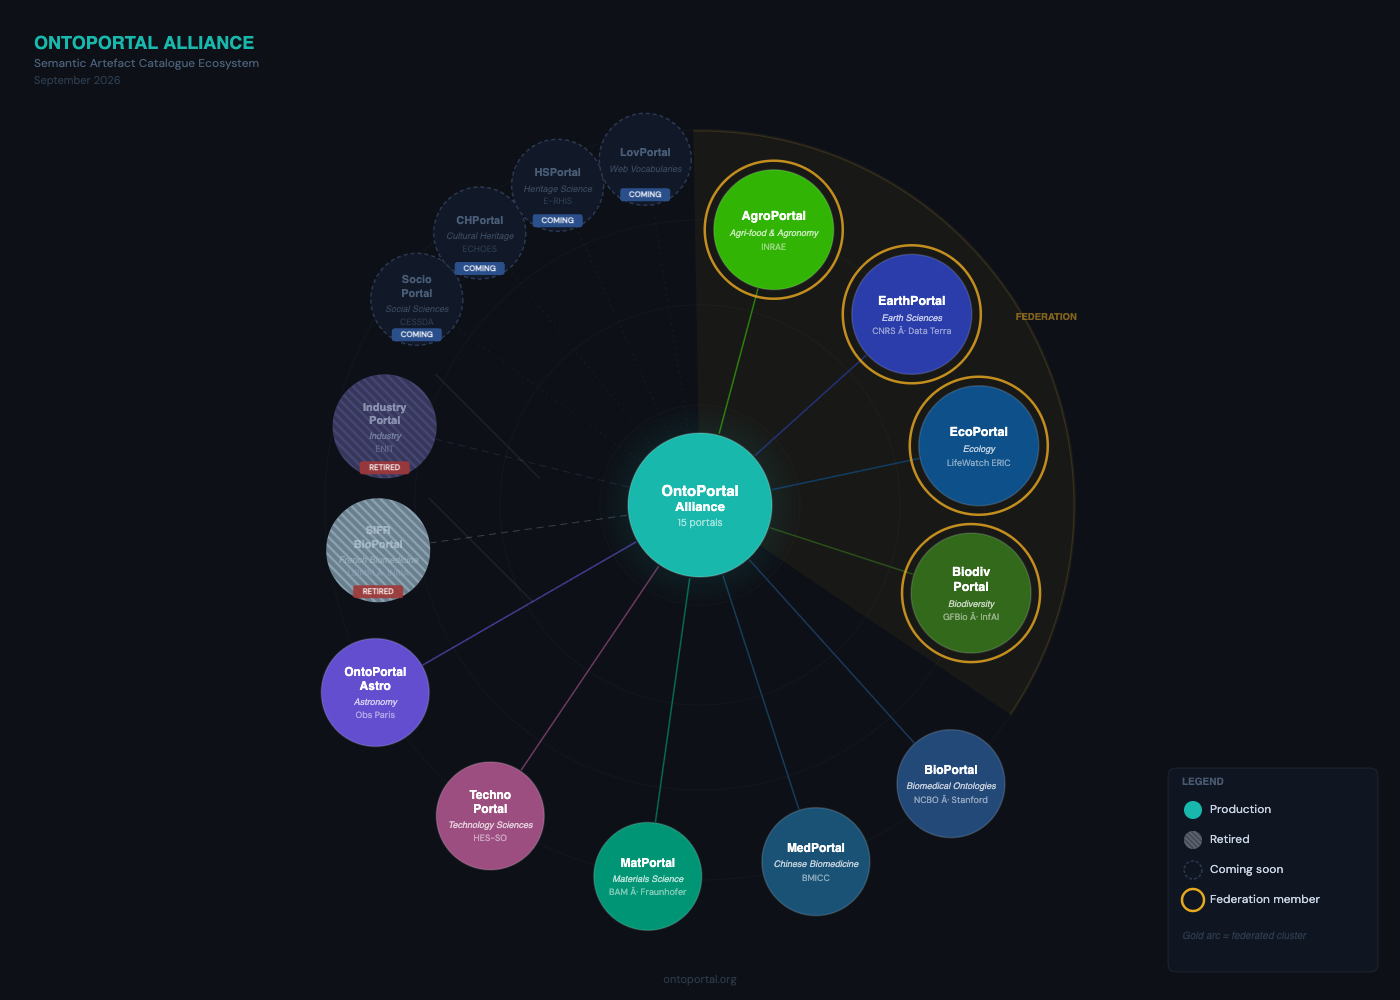
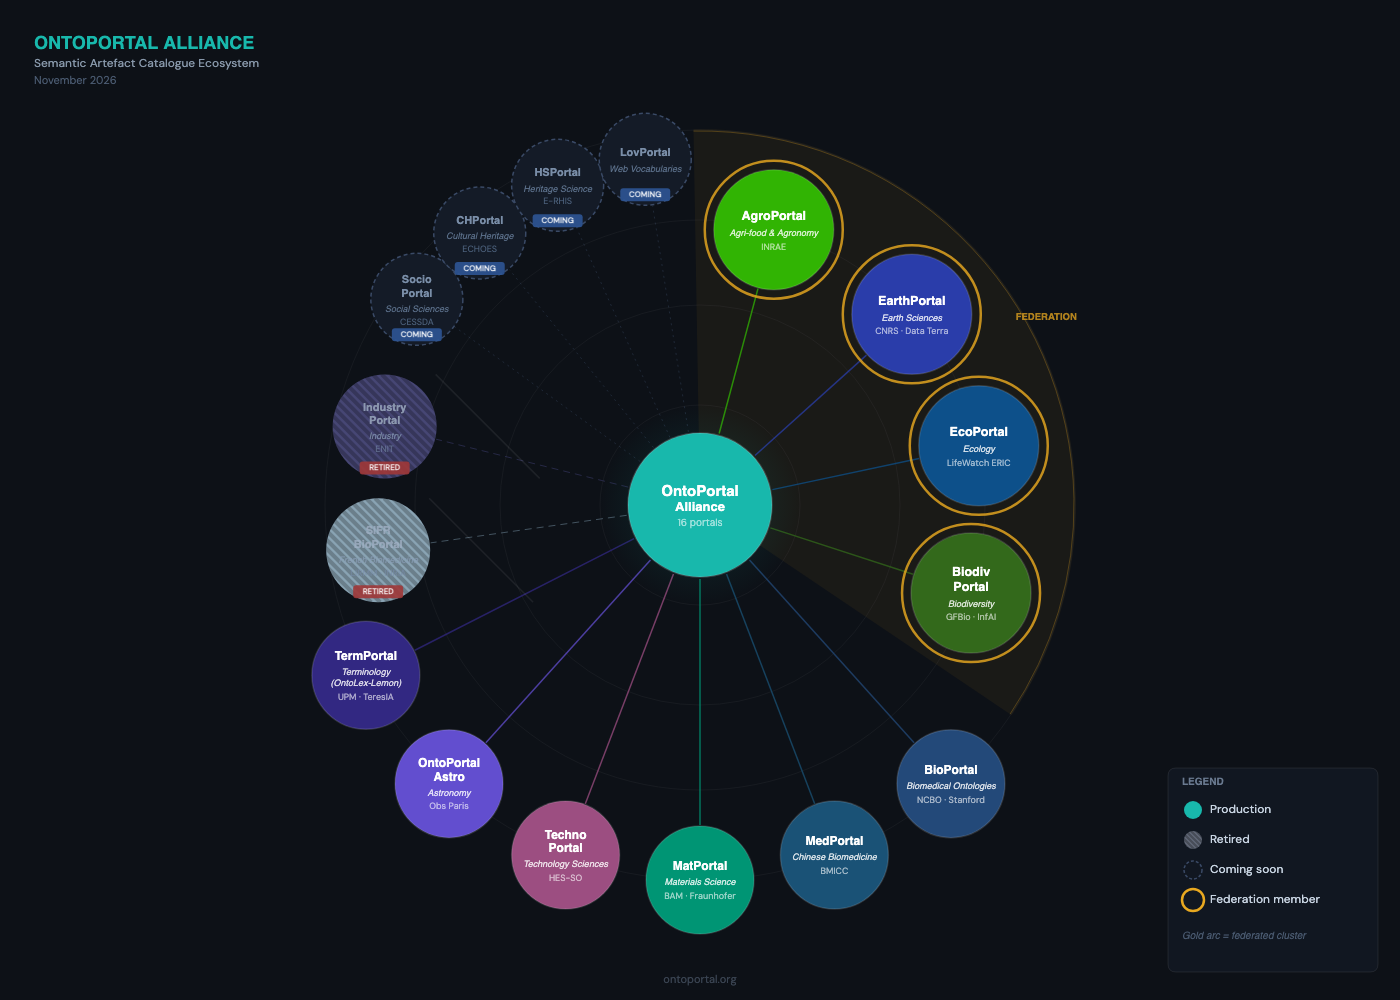
Add a dark theme to the alliance map and regenerate both PNGs
The map source now renders the dark variant with ?theme=dark, so both
images come from the same file. Both PNGs now show TermPortal (16 portals,
November 2026), and the workshop report counts 11 public portals.

diff --git a/images/ontoportal-alliance-map.html b/images/ontoportal-alliance-map.html
@@ -39,6 +39,22 @@ const PORTALS = [
   {name:"LovPortal",       lines:["LovPortal"],           domain:"Web Vocabularies",       org:"",                 color:"#556080",status:"coming",    fed:false,angle:351, r:350,nr:46},
 ];
 
+// Theme: light by default, dark with ?theme=dark
+const DARK=new URLSearchParams(location.search).get('theme')==='dark';
+const T=DARK?{
+  bg:'#0d1117',ring:'rgba(255,255,255,0.045)',fedFill:'rgba(232,168,32,0.06)',fedLabel:'rgba(232,168,32,0.75)',
+  comingSpoke:'#3a4a66',comingFill:'#141b27',comingStroke:'#3a4a66',
+  comingName:'#7a8ea8',comingDom:'#5a6e88',comingOrg:'#4a5e78',
+  legendBg:'rgba(18,24,34,0.96)',legendStroke:'rgba(255,255,255,0.08)',legendTitle:'#6a7a90',legendText:'#c8d4e2',legendNote:'#4a5a70',
+  subtitle:'#8898aa',date:'#4a5a70',footer:'rgba(140,160,190,0.35)'
+}:{
+  bg:'#ffffff',ring:'rgba(0,0,0,0.045)',fedFill:'rgba(232,168,32,0.07)',fedLabel:'rgba(180,120,10,0.7)',
+  comingSpoke:'#aab8c8',comingFill:'#f0f4f8',comingStroke:'#aab8cc',
+  comingName:'#7a8ea8',comingDom:'#8898b0',comingOrg:'#6a7e98',
+  legendBg:'rgba(248,250,252,0.96)',legendStroke:'rgba(0,0,0,0.1)',legendTitle:'#6a7a90',legendText:'#2a3a50',legendNote:'#8898aa',
+  subtitle:'#5a6e86',date:'#8898aa',footer:'rgba(80,100,130,0.45)'
+};
+
 function rad(d){return d*Math.PI/180}
 function pos(p){const a=rad(p.angle-90);return[CX+p.r*Math.cos(a),CY+p.r*Math.sin(a)]}
 function desat(hex,f){
@@ -63,13 +79,13 @@ function draw(){
   const ctx=canvas.getContext('2d');
   const W=canvas.width,H=canvas.height;
 
-  ctx.fillStyle='#ffffff';ctx.fillRect(0,0,W,H);
+  ctx.fillStyle=T.bg;ctx.fillRect(0,0,W,H);
 
   // Subtle concentric guide rings
   ctx.save();
   [100,200,285,375].forEach(rr_=>{
     ctx.beginPath();ctx.arc(CX,CY,rr_,0,Math.PI*2);
-    ctx.strokeStyle='rgba(0,0,0,0.045)';ctx.lineWidth=1;ctx.stroke();
+    ctx.strokeStyle=T.ring;ctx.lineWidth=1;ctx.stroke();
   });
   ctx.restore();
 
@@ -80,12 +96,12 @@ function draw(){
   ctx.save();
   ctx.beginPath();ctx.moveTo(CX,CY);
   ctx.arc(CX,CY,fedMaxR,rad(faS-90),rad(faE-90));ctx.closePath();
-  ctx.fillStyle='rgba(232,168,32,0.07)';ctx.fill();
+  ctx.fillStyle=T.fedFill;ctx.fill();
   ctx.beginPath();ctx.arc(CX,CY,fedMaxR-2,rad(faS-90),rad(faE-90));
   ctx.strokeStyle='rgba(232,168,32,0.28)';ctx.lineWidth=1;ctx.stroke();
   const faMid=rad((faS+faE)/2-90);
   const flr=fedMaxR+18;
-  ctx.font='600 9.5px Syne,sans-serif';ctx.fillStyle='rgba(180,120,10,0.7)';
+  ctx.font='600 9.5px Syne,sans-serif';ctx.fillStyle=T.fedLabel;
   ctx.textAlign='center';ctx.textBaseline='middle';
   ctx.fillText('FEDERATION',CX+flr*Math.cos(faMid),CY+flr*Math.sin(faMid));
   ctx.restore();
@@ -97,7 +113,7 @@ function draw(){
     const sx=CX+(dx/dist)*74, sy=CY+(dy/dist)*74;
     const ex=x-(dx/dist)*(p.nr+1), ey=y-(dy/dist)*(p.nr+1);
     ctx.save();
-    ctx.strokeStyle=p.status==='production'?p.color:p.status==='retired'?desat(p.color,.4):'#aab8c8';
+    ctx.strokeStyle=p.status==='production'?p.color:p.status==='retired'?desat(p.color,.4):T.comingSpoke;
     ctx.lineWidth=p.status==='production'?1.5:1;
     ctx.globalAlpha=p.status==='production'?.75:p.status==='retired'?.45:.4;
     ctx.setLineDash(p.status==='retired'?[7,5]:p.status==='coming'?[2,4]:[]);
@@ -112,7 +128,7 @@ function draw(){
 
   ctx.save();
   ctx.font='400 11px DM Sans,sans-serif';
-  ctx.fillStyle='rgba(80,100,130,0.45)';ctx.textAlign='center';ctx.textBaseline='bottom';
+  ctx.fillStyle=T.footer;ctx.textAlign='center';ctx.textBaseline='bottom';
   ctx.fillText('ontoportal.org',W/2,H-14);
   ctx.restore();
 }
@@ -145,8 +161,8 @@ function drawNode(ctx,p,x,y){
 
   ctx.beginPath();ctx.arc(x,y,NR,0,Math.PI*2);
   if(coming){
-    ctx.fillStyle='#f0f4f8';ctx.fill();
-    ctx.strokeStyle='#aab8cc';ctx.lineWidth=1.5;ctx.setLineDash([4,3]);ctx.stroke();ctx.setLineDash([]);
+    ctx.fillStyle=T.comingFill;ctx.fill();
+    ctx.strokeStyle=T.comingStroke;ctx.lineWidth=1.5;ctx.setLineDash([4,3]);ctx.stroke();ctx.setLineDash([]);
   } else {
     ctx.fillStyle=retired?desat(p.color,.52):p.color;ctx.fill();
     if(retired){
@@ -159,9 +175,9 @@ function drawNode(ctx,p,x,y){
     ctx.lineWidth=1.5;ctx.setLineDash([]);ctx.stroke();
   }
 
-  const nc=coming?'#7a8ea8':retired?'rgba(160,175,195,0.8)':'#fff';
-  const dc=coming?'#8898b0':retired?'rgba(140,160,185,0.7)':'rgba(255,255,255,0.82)';
-  const oc=coming?'#6a7e98':retired?'rgba(120,140,170,0.6)':'rgba(255,255,255,0.6)';
+  const nc=coming?T.comingName:retired?'rgba(160,175,195,0.8)':'#fff';
+  const dc=coming?T.comingDom:retired?'rgba(140,160,185,0.7)':'rgba(255,255,255,0.82)';
+  const oc=coming?T.comingOrg:retired?'rgba(120,140,170,0.6)':'rgba(255,255,255,0.6)';
 
   const maxW=NR*1.68;
   ctx.textAlign='center';ctx.textBaseline='middle';
@@ -196,9 +212,9 @@ function drawNode(ctx,p,x,y){
 function drawLegend(ctx,W,H){
   const lx=W-218,ly=H-218;
   rrect(ctx,lx-14,ly-14,210,204,8);
-  ctx.fillStyle='rgba(248,250,252,0.96)';ctx.fill();
-  ctx.strokeStyle='rgba(0,0,0,0.1)';ctx.lineWidth=1;ctx.stroke();
-  ctx.font='700 10px Syne,sans-serif';ctx.fillStyle='#6a7a90';
+  ctx.fillStyle=T.legendBg;ctx.fill();
+  ctx.strokeStyle=T.legendStroke;ctx.lineWidth=1;ctx.stroke();
+  ctx.font='700 10px Syne,sans-serif';ctx.fillStyle=T.legendTitle;
   ctx.textAlign='left';ctx.textBaseline='middle';ctx.fillText('LEGEND',lx,ly);
   const items=[
     {label:'Production',draw:(x,y)=>{ctx.beginPath();ctx.arc(x,y,9,0,Math.PI*2);ctx.fillStyle='#18b8ac';ctx.fill();}},
@@ -208,17 +224,17 @@ function drawLegend(ctx,W,H){
       for(let i=-18;i<18;i+=5){ctx.beginPath();ctx.moveTo(x-9+i,y-9);ctx.lineTo(x-9+i+18,y+9);ctx.stroke();}
       ctx.restore();
     }},
-    {label:'Coming soon',draw:(x,y)=>{ctx.beginPath();ctx.arc(x,y,9,0,Math.PI*2);ctx.strokeStyle='#2a3852';ctx.lineWidth=1.5;ctx.setLineDash([3,2]);ctx.stroke();ctx.setLineDash([]);}},
+    {label:'Coming soon',draw:(x,y)=>{ctx.beginPath();ctx.arc(x,y,9,0,Math.PI*2);ctx.strokeStyle=DARK?'#3a4a66':'#2a3852';ctx.lineWidth=1.5;ctx.setLineDash([3,2]);ctx.stroke();ctx.setLineDash([]);}},
     {label:'Federation member',draw:(x,y)=>{ctx.beginPath();ctx.arc(x,y,11,0,Math.PI*2);ctx.strokeStyle='#e8a820';ctx.lineWidth=2.5;ctx.stroke();}},
   ];
   let iy=ly+28;
   for(const item of items){
     ctx.save();item.draw(lx+11,iy);ctx.restore();
-    ctx.font='400 12px DM Sans,sans-serif';ctx.fillStyle='#2a3a50';
+    ctx.font='400 12px DM Sans,sans-serif';ctx.fillStyle=T.legendText;
     ctx.textAlign='left';ctx.textBaseline='middle';ctx.fillText(item.label,lx+28,iy);
     iy+=30;
   }
-  ctx.font='italic 400 10px DM Sans,sans-serif';ctx.fillStyle='#8898aa';
+  ctx.font='italic 400 10px DM Sans,sans-serif';ctx.fillStyle=T.legendNote;
   ctx.fillText('Gold arc = federated cluster',lx,iy+6);
 }
 
@@ -227,10 +243,10 @@ function drawTitle(ctx){
   ctx.textAlign='left';ctx.textBaseline='top';
   ctx.font='800 18px Syne,sans-serif';ctx.fillStyle='#18b8ac';
   ctx.fillText('ONTOPORTAL ALLIANCE',34,34);
-  ctx.font='400 12px DM Sans,sans-serif';ctx.fillStyle='#5a6e86';
+  ctx.font='400 12px DM Sans,sans-serif';ctx.fillStyle=T.subtitle;
   ctx.fillText('Semantic Artefact Catalogue Ecosystem',34,58);
-  ctx.font='400 11px DM Sans,sans-serif';ctx.fillStyle='#8898aa';
-  ctx.fillText('September 2026',34,76);
+  ctx.font='400 11px DM Sans,sans-serif';ctx.fillStyle=T.date;
+  ctx.fillText('November 2026',34,76);
   ctx.restore();
 }
 

diff --git a/_posts/2026-10-19-ontoportal-workshop-2026-report.md b/_posts/2026-10-19-ontoportal-workshop-2026-report.md
@@ -9,7 +9,7 @@ date: 2026-10-19
 
 The OntoPortal community gathered at the Observatoire de Paris, France, from September 21 to 25, 2026, for the **5th OntoPortal Workshop**, bringing members together both on site and online.
 
-The Alliance now brings together **10 public portals and 3 upcoming ones**, with [CHPortal](https://chportal.culturalheritagecloud.eu/){:target="_blank"}, the repository of cultural heritage ontologies, newly released this year. The workshop highlighted the complementary roles of the broader Alliance—as an open community of practice—and the more committed **OntoPortal Federation**.
+The Alliance now brings together **11 public portals and 3 upcoming ones**, with [CHPortal](https://chportal.culturalheritagecloud.eu/){:target="_blank"}, the repository of cultural heritage ontologies, newly released this year. The workshop highlighted the complementary roles of the broader Alliance—as an open community of practice—and the more committed **OntoPortal Federation**.
 
 A key highlight was the **public online session** (September 23), gathering 77 attendees from across international communities, featuring six presentations by representative users:
 
